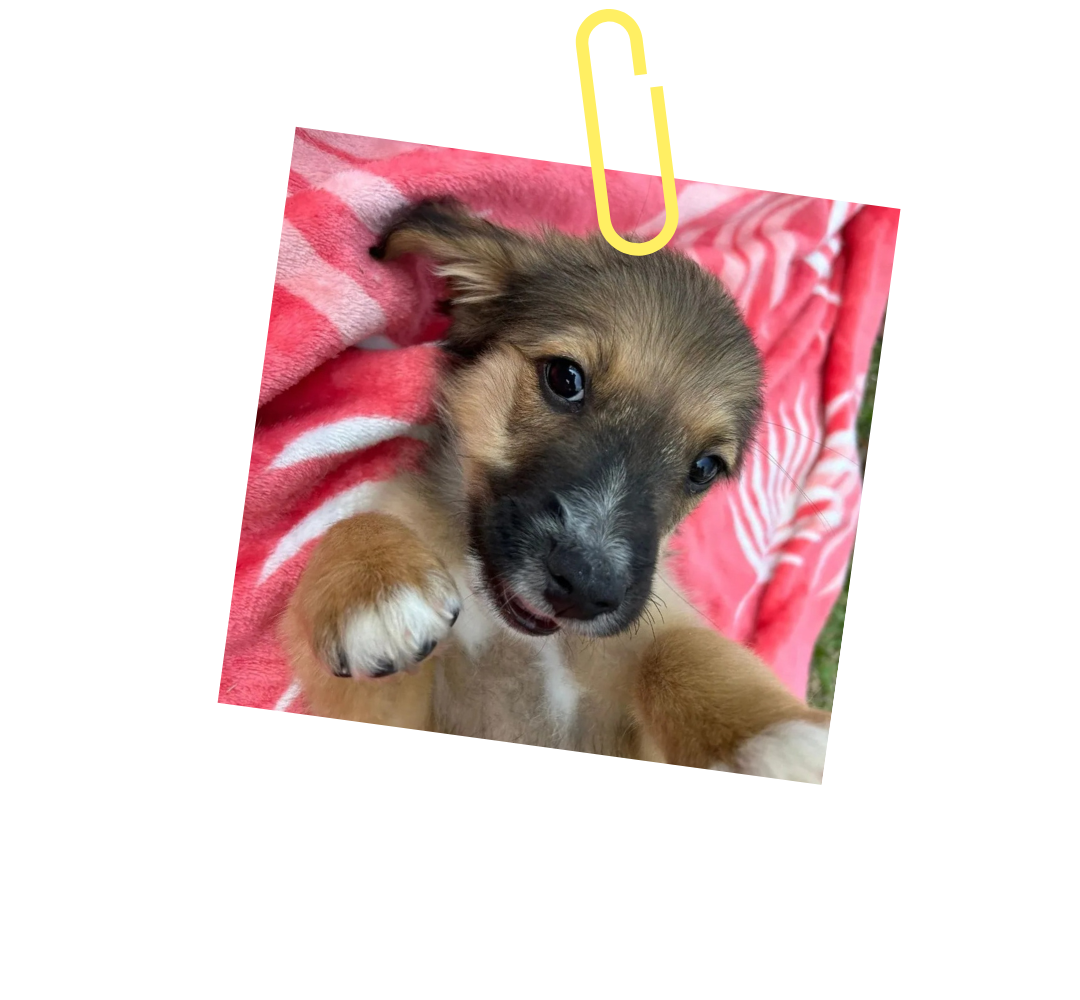
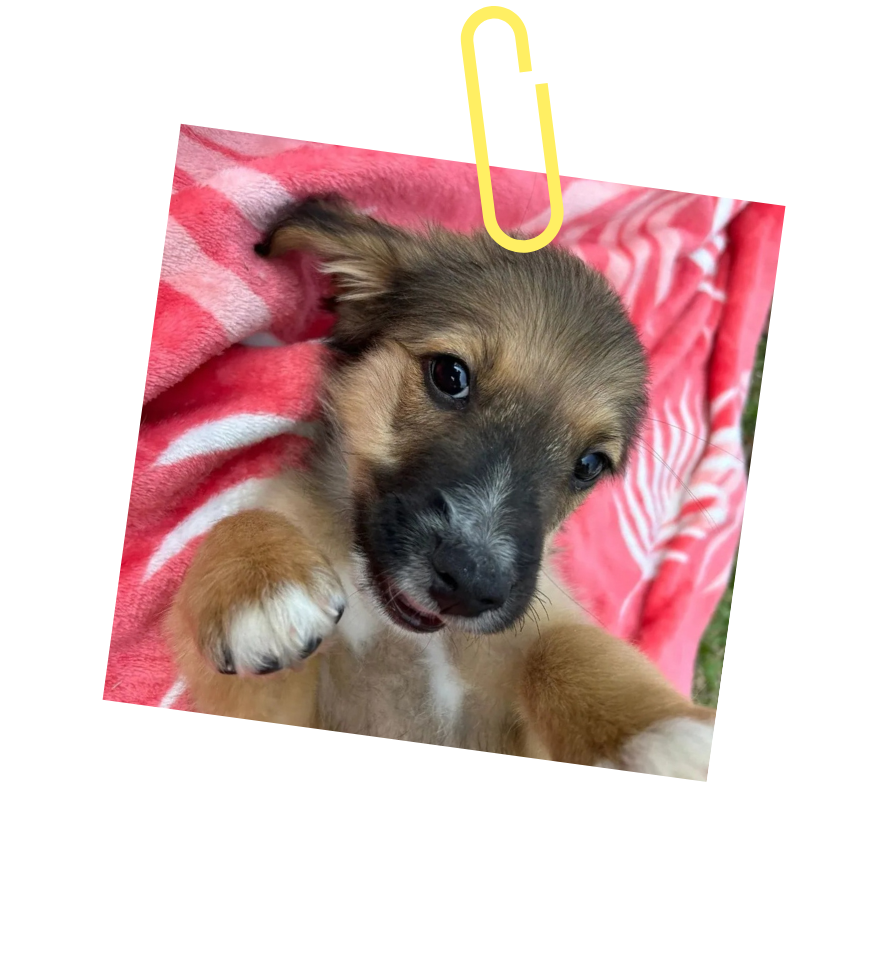
fix: responsiveness

Changed region(s): [[0.1237, 0.0, 0.8969, 0.7967]]

diff --git a/Front-end/src/pages/mainPage.jsx b/Front-end/src/pages/mainPage.jsx
@@ -10,12 +10,10 @@ export const MainPage = () => {
     const images = ["/dogo_teste.png", "/segundo_dog.png", "/dogo_teste.png", "/segundo_dog.png"];
     const [current, setCurrent] = useState(0);
 
-    const nextSlide = () => {
-        setCurrent((prev) => (prev + 1) % images.length);
-    };
-
     useEffect(() => {
-        const interval = setInterval(nextSlide, 3000);
+        const interval = setInterval(() => {
+            setCurrent((prev) => (prev + 1) % images.length);
+        }, 3000);
         return () => clearInterval(interval);
     }, []);
 
@@ -23,98 +21,137 @@ export const MainPage = () => {
         <>
             <Header open={menuOpen} setOpen={setMenuOpen} />
 
-            {/* FIRST SECTION */}
-            <div className="w-full h-screen bg-[#ff66c4] flex flex-col pt-10 pb-0 overflow-hidden items-center justify-center
-                            sm:h-screen
-                            md:flex-row md:h-[32vh]
-                            lg:h-[71vh]
-                            2xl:h-[98vh]">
+            {/* HERO */}
+<div
+    className="
+        w-full min-h-[70vh]
+        flex flex-col items-center justify-center
+        px-6 gap-10
+        bg-[#ff66c4]
+        overflow-x-hidden
 
-                <section className="flex flex-col w-80 max-w-6xl gap-6 justify-center
-                                    md: md:w-[50%] md:ml-10
-                                    xl:ml-[5%]">
-                    
-                    <img src="../public/me adota.png" alt="" className=""/>
+        sm:min-h-[60vh]
 
-                    <button
-                        onClick={() => navigate("/Pets")}
-                        className="px-6 py-3 bg-[#0097b2] text-white rounded-full text-xl hover:bg-[#33AEC4] w-40 mx-auto md:mx-0
-                                    xl:text-3xl xl:w-[20vw]
-                                    2xl:text-5xl">
-                        Adotar!
-                    </button>
-                </section>
+        md:flex-row
+        md:min-h-[30vh]
 
-                {/* Img cachorro */}
-                <div className="w-full h-full flex items-end justify-center overflow-hidden leading-none">
-                    <img
-                        src="../public/cachorro pirata.png"
-                        className="max-h-full w-auto object-contain block"
-                    />
-                </div>
+        lg:h-[40vh]
+    "
+>
+    {/* TEXTO */}
+    <section
+        className="
+            w-full max-w-xl
+            flex flex-col gap-6
+            items-center text-center
 
-            </div>
+            md:w-1/2
+        "
+    >
+        <img
+            src="/me adota.png"
+            alt="Adote um pet"
+            className="
+                w-full max-w-sm
 
-            {/* SECOND SECTION */}
-            <div className="w-full bg-white flex flex-col md:flex-row items-center justify-center gap-[15%] px-6 py-10 mt-10
-                sm:mt-3
-                md:mt-13
-                xl:mt-20">
-                
-                <section className="w-full max-w-md flex flex-col items-center justify-center
-                    2xl:w-[90vw]">
+                sm:w-[55vw]
+
+                md:w-[40vw]
+            "
+        />
+
+        <button
+            onClick={() => navigate('/Pets')}
+            className="
+                px-6 py-3
+                bg-[#0097b2]
+                text-white
+                rounded-full
+                text-lg
+                hover:bg-[#33AEC4]
+
+                w-full max-w-xs
+
+                sm:text-3xl
+
+                md:text-xl
+            "
+        >
+            Adotar!
+        </button>
+    </section>
+
+    {/* IMAGEM */}
+    <div
+        className="
+            w-full
+            md:w-1/2
+
+            flex justify-center
+
+            lg:justify-end
+        "
+    >
+        <img
+            src="/cachorro pirata.png"
+            alt="Cachorro"
+            className="
+                w-full max-w-md
+                object-contain
+
+                sm:w-[80vw]
+
+                md:w-[50vw]
+            "
+        />
+    </div>
+</div>
+
+            {/* SOBRE */}
+            <div className="w-full bg-white flex flex-col md:flex-row items-center justify-center gap-10 px-6 py-16
+                sm:text-2xl">
+
+                <section className="w-full max-w-md flex flex-col items-center text-center">
                     <div className="bg-[#0097b2] text-white text-xl h-14 flex items-center justify-center rounded-t-2xl w-full
-                        sm:text-3xl
+                        sm:text-2xl
                         md:text-2xl
-                        lg:text-3xl
-                        xl:text-4xl">
+                        lg:text-3xl">
                         Quem Somos?
                     </div>
 
-                    <div className="border-2 border-[#0097b2] p-6 rounded-b-2xl flex flex-col items-center justify-center gap-6 text-center w-full
-                        md:h-[25vh]
-                        lg:h-[50vh]
-                        2xl:w-[29vw]">
+                    <div className="border-2 border-[#0097b2] p-6 rounded-b-2xl flex flex-col gap-6 w-full
+                        sm:text-2xl">
                         <h1 className="text-xl
-                            sm:text-3xl
+                            sm:text-2xl
                             md:text-2xl
-                            lg:text-3xl
-                            xl:text-4xl">
+                            lg:text-3xl">
                             Bom pra Cachorro!
                         </h1>
 
                         <p className="text-base
-                            sm:text-2xl
+                            sm:text-xl
                             md:text-lg
-                            lg:text-2xl
-                            xl:text-3xl">
+                            lg:text-xl">
                             Somos uma ONG de Curitiba que cuida de mais de 20 animais disponíveis para adoção!
                         </p>
 
-                        <button 
+                        <button
                             onClick={() => navigate("LearnMore")}
-                            className="bg-[#ff66c4] text-white rounded-xl py-2 px-4 hover:bg-[#ff85d1] w-[50%]
-                                sm:text-3xl
-                                lg:text-2xl
-                                xl:text-3xl
-                                2xl:w-[20vw]">
+                            className="bg-[#ff66c4] text-white rounded-xl py-2 px-4 hover:bg-[#ff85d1] w-full max-w-xs mx-auto">
                             Saiba mais
                         </button>
                     </div>
                 </section>
 
-                <section className="w-[80vw] max-w-lg
-                    sm:w-[70vw]
-                    md:w-[50vw]
-                    lg:w-[30vw]
-                    2xl:w-[25vw]">
+                {/* CARROSSEL */}
+                <section className="w-full max-w-md">
                     <div className="overflow-hidden rounded-2xl">
-                        <div 
+                        <div
                             className="flex transition-transform duration-500"
                             style={{ transform: `translateX(-${current * 100}%)` }}
                         >
                             {images.map((img, index) => (
-                                <img key={index} src={img} className="w-full shrink-0" />
+                                <img key={index} src={img} className="w-full shrink-0 object-cover" />
                             ))}
                         </div>
                     </div>
@@ -132,100 +169,80 @@ export const MainPage = () => {
                 </section>
             </div>
 
-            {/* THIRD SECTION */}
-         <div className="bg-[#0097b2] w-full h-screen flex flex-col items-center justify-center px-6 py-10 gap-10
-                md:flex-row md:h-p
-                xl:h-[65vh]
-                2xl:h-[80vh]">
+            {/* AJUDA */}
+            <div className="bg-[#0097b2] w-full h-auto min-h-[60vh] flex flex-col-reverse items-center justify-center px-6 py-16 gap-10
+                md:flex-row">
 
-            <img 
-                src="/polaroid_dog.png" 
-                className="w-[80%] 
-                    md:w-[50%]
-                    lg:w-[45%]
-                    xl:w-[35%]"
-            />
+                <img
+                    src="/polaroid_dog.png"
+                    alt="Dog"
+                    className="w-full max-w-sm 
+                        md:w-[60vw]"
+                />
 
-            <section className="flex flex-col gap-4 items-center justify-center text-center md:text-left max-w-md">
-                <h1 className="text-xl text-white
-                    sm:text-3xl
-                    md:text-2xl
-                    lg:text-3xl
-                    xl:text-4xl">
-                    Saiba como ajudar a ONG
-                </h1>
+                <section className="flex flex-col gap-4 text-center md:text-left max-w-md text-white items-center justify-center">
+                    <h1 className="text-xl
+                        sm:text-3xl
+                        md:text-3xl 
+                        g:text-3xl">
+                        Saiba como ajudar a ONG
+                    </h1>
 
-                <p className="text-white
-                    sm:text-xl
-                    lg:text-xl
-                    xl:text-2xl">
-                    Se você ama os animais tanto quanto a gente, saiba que pode fazer a diferença!
-                </p>
+                    <p className="
+                        sm:text-xl
+                        md:text-xl">
+                        Se você ama os animais tanto quanto a gente, saiba que pode fazer a diferença!
+                    </p>
 
-                <p className="text-white
-                    sm:text-xl
-                    lg:text-xl
-                    xl:text-2xl">
-                    Com a sua contribuição, conseguimos oferecer alimentação, cuidados veterinários e muito carinho.
-                </p>
+                    <p className="
+                        sm:text-xl
+                        md:text-xl">
+                        Com a sua contribuição, conseguimos oferecer alimentação, cuidados veterinários e muito carinho.
+                    </p>
 
-                <button 
-                    onClick={() => navigate("/Help")}
-                    className="px-6 py-3 bg-white text-[#0097b2] rounded-full w-[80%]
-                        sm:text-2xl
-                        md:w-auto
-                        lg:text-2xl">
-                    Saiba como Contribuir!
-                </button>
-            </section>
-        </div>  
+                    <button
+                        onClick={() => navigate("/Help")}
+                        className="px-6 py-3 bg-white text-[#0097b2] rounded-full w-full text-center
+                            sm:text-xl sm:w-[40vw]
+                            md:w-[30vw]">
+                        Contribuir
+                    </button>
+                </section>
+            </div>
 
-            {/* FOURTH SECTION */}
-            <div className="bg-white w-full h-screen flex px-6 py-10 items-center justify-center
-                md:h-[40vh]
-                lg:h-[80vh]
-                xl:h-[75vh]
-                2xl:h-[80vh]">
+            <div className="bg-white w-full min-h-[80vh] flex items-center justify-center px-6 py-16
+                md:min-h-[60vh]">
+                <section className="w-full h-135 bg-[#ffef63] rounded-3xl flex flex-col md:flex-row items-center justify-between p-6 gap-6
+                    md:h-[40vh]">
 
-                <section className="w-full h-full max-w-5xl bg-[#ffef63] rounded-3xl flex flex-col p-6 gap-6 items-center justify-start
-                    md:flex-row md:h-[30vh]
-                    lg:h-[55vh]
-                    2xl:h-[60vh] 2xl:w-[70vw]
-                    relative overflow-visible">
-
-                    <div className="flex flex-col gap-4 text-center relative z-10
-                        md:text-center md:w-[50vw]
-                        2xl:w-[35vw]">
-                        
-                        <h1 className="text-xl
+                    {/* TEXTO */}
+                    <div className="flex flex-col gap-4 text-center md:text-left max-w-md">
+                        <h1 className="text-xl 
                             sm:text-2xl
-                            md:text-2xl
-                            lg:text-3xl
-                            xl:text-4xl">
+                            md:text-2xl 
+                            lg:text-3xl">
                             Violência contra o animal? Denuncie!
                         </h1>
 
                         <hr className="border-black" />
 
                         <p className="text-base
-                            sm:text-xl
-                            md:text-lg
-                            lg:text-2xl
-                            xl:text-3xl">
+                            sm:text-2xl
+                            md:text-2xl
+                            lg:text-xl">
                             Caso presencie qualquer tipo de violência animal, NÃO SEJA CÚMPLICE!
-                            Disque 181 ou 156 para denunciar.
+                            Disque 181 ou 156.
                         </p>
                     </div>
 
-                    <img 
+                    {/* IMAGEM */}
+                    <img
                         src="/heroi_dogo.png"
-                        className="w-[60vw] absolute z-20 -bottom-10 right-15
-                            sm:w-[40vw] sm:right-40
-                            md:w-[25vw] md:-bottom-6 md:right-6
-                            lg:w-[22%] lg:-bottom-8 lg:right-10
-                            xl:w-[30%] xl:-bottom-10 xl:right-0
-                            2xl:w-[17vw] 2xl:right-20"
+                        alt="Herói"
+                        className="w-45
+                            md:w-55"
                     />
+
                 </section>
             </div>
 
